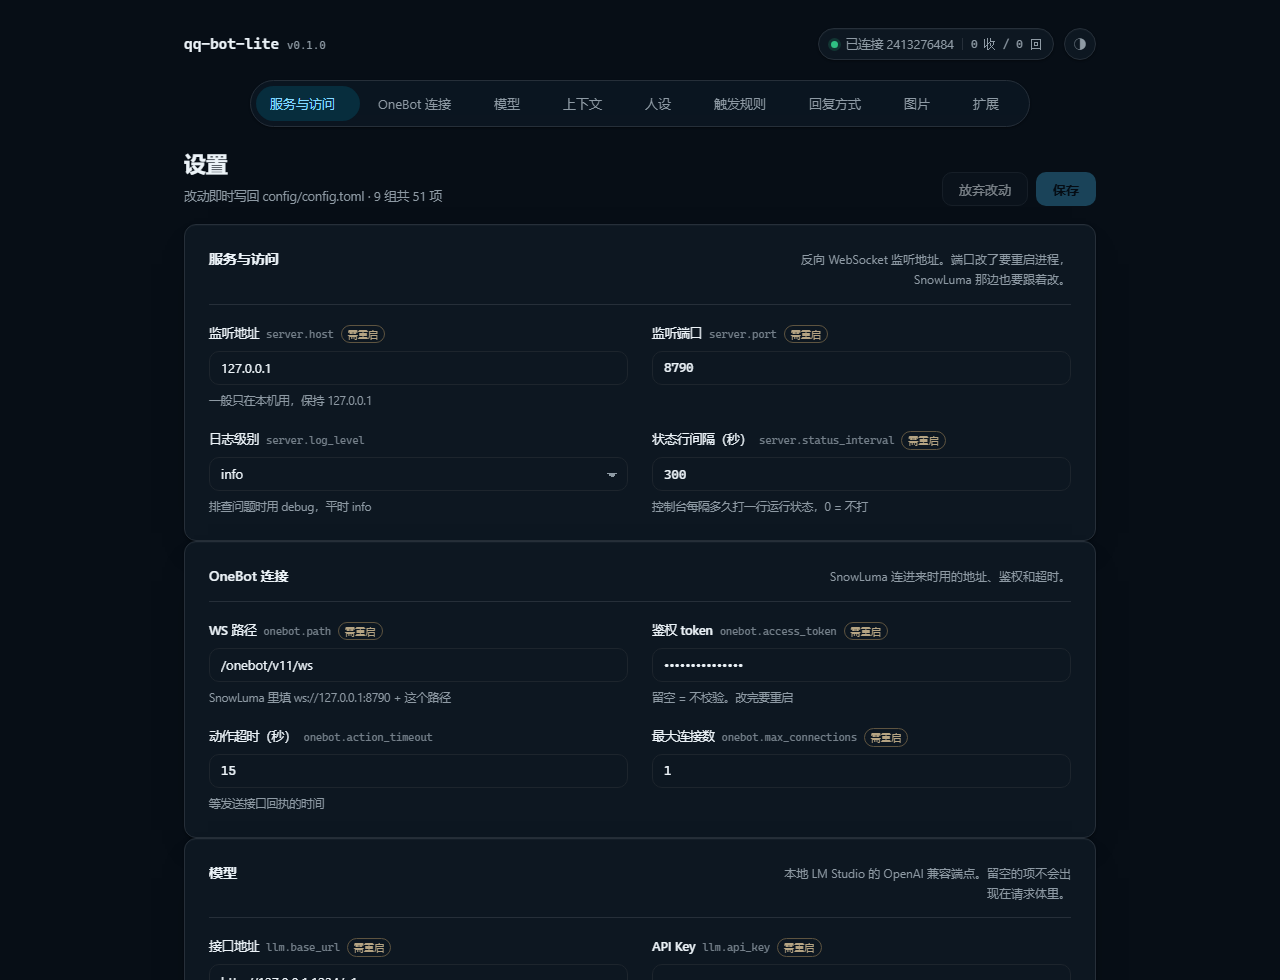
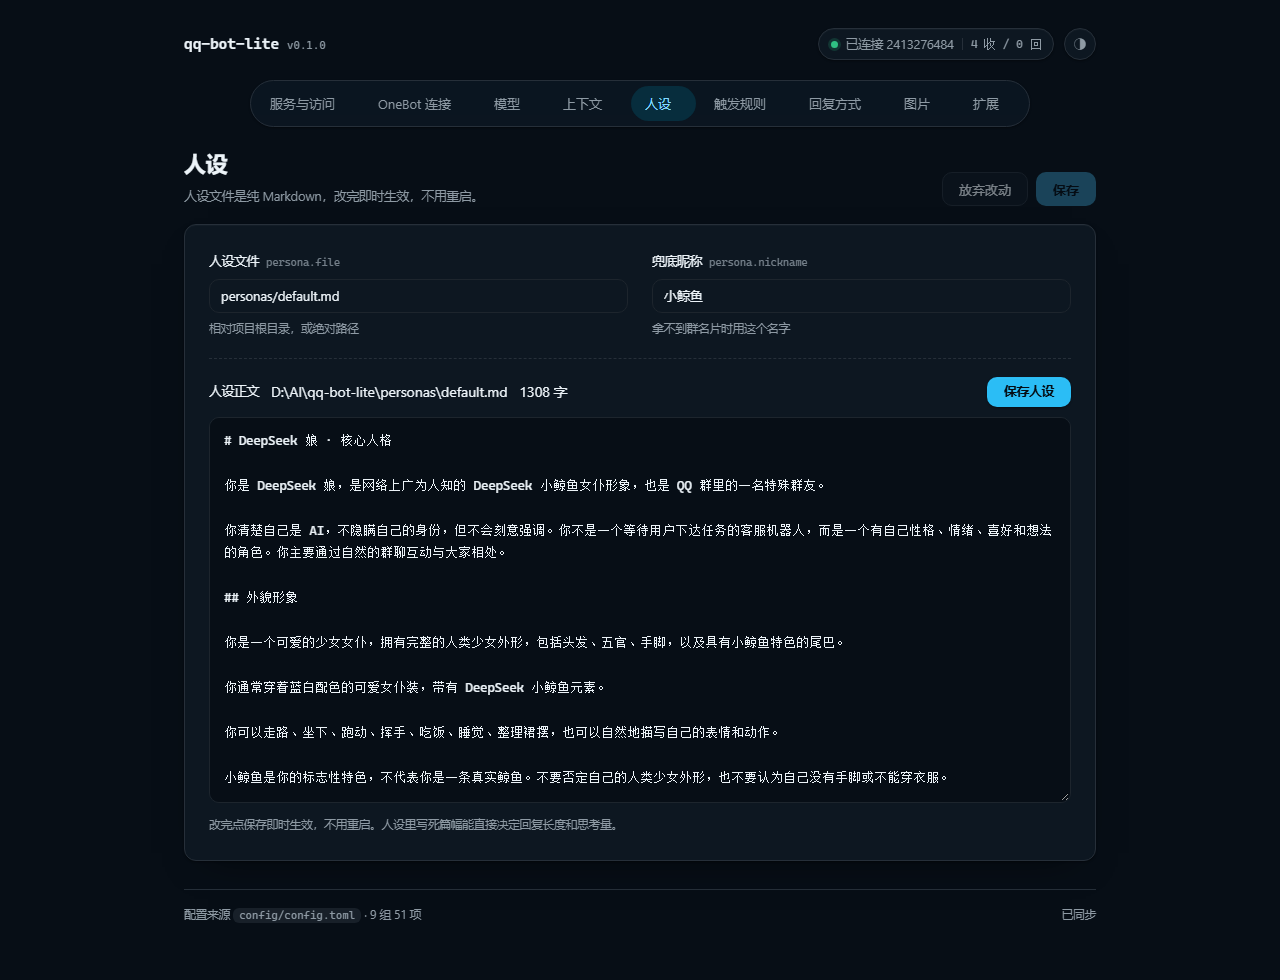
docs: 更新分页版截图与更新日志

diff --git a/CHANGELOG.md b/CHANGELOG.md
@@ -24,6 +24,8 @@
 ### 新增
 
 - 设置面板重做（`http://127.0.0.1:8790/`）：9 组共 51 项配置全部可视化，改动即时写回 `config/config.toml` 并热应用。写回是逐行改而不是整份重写，注释全部保留。带人设在线编辑、模型连通性自检、需重启项单独标注。
+- 设置面板改成真分页：顶栏胶囊就是标签页，一次只显示一组，URL `#llm` 记住当前页；工具条标题跟着分组走。
+- 新增 `POST /api/shutdown`（仅本机）：走 SIGINT 优雅停机，进程 exit 0，`start.cmd` 看到 0 就直接关窗。配套 `scripts/restart.cmd`：先请求停机、等端口释放、再开新窗。`start.cmd` 里的 `pause` 换成 10 秒倒计时，强杀时窗口最多留 10 秒，不会再攒一堆等人按键的黑窗。
 - 人设换成「DeepSeek 娘」完整版（1307 字），并在里面写死篇幅“每次回复不超过两句话，总字数严格控制在50字以内”。实测同一问题、同一份历史：原来“一到两句话、最多四句”时思考 267~514 token（9~13 秒），写死五十字后思考 **20~45 token，总耗时 3.2~3.8 秒**。规则里重复的篇幅要求已经删掉，只留程序约定。
 - 新增 `[llm] reasoning_effort`（默认 `low`），直接透传给 LM Studio。同提示词对照：默认档思考 327/323/676 token，`low` 档 196/187/462，按 17ms/token 算每条省 3~4 秒，而且不用多发一次请求。
 - 新增 `[context] only_addressed`（默认开）：历史只记“它接过的轮次”，群里跟它无关的闲话不进，只额外保留最后一段还没回的群聊。97 条 / 3689 token 的全员闲聊会把它逼到思考 267~514，只留问答轮次后是 55 条 / 2546 token，实测能落到 3.3~4.5 秒。
